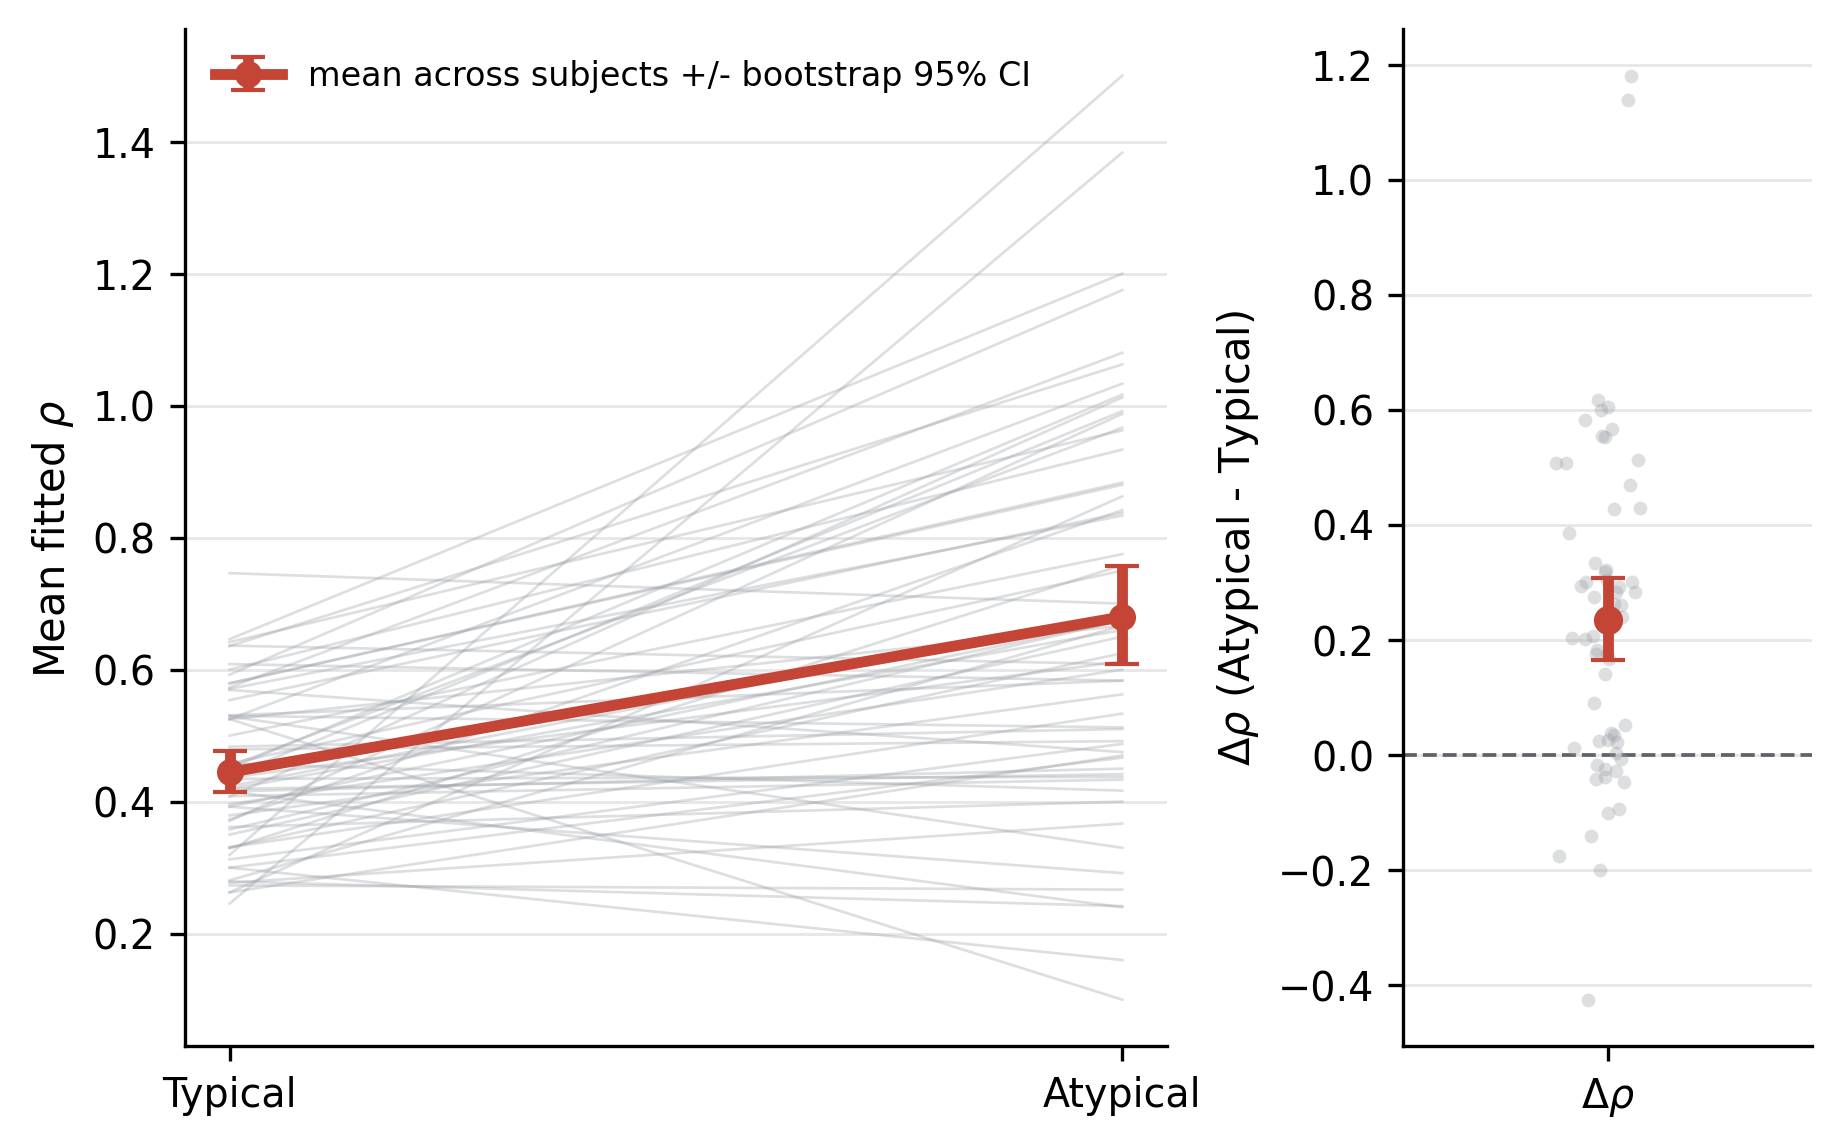
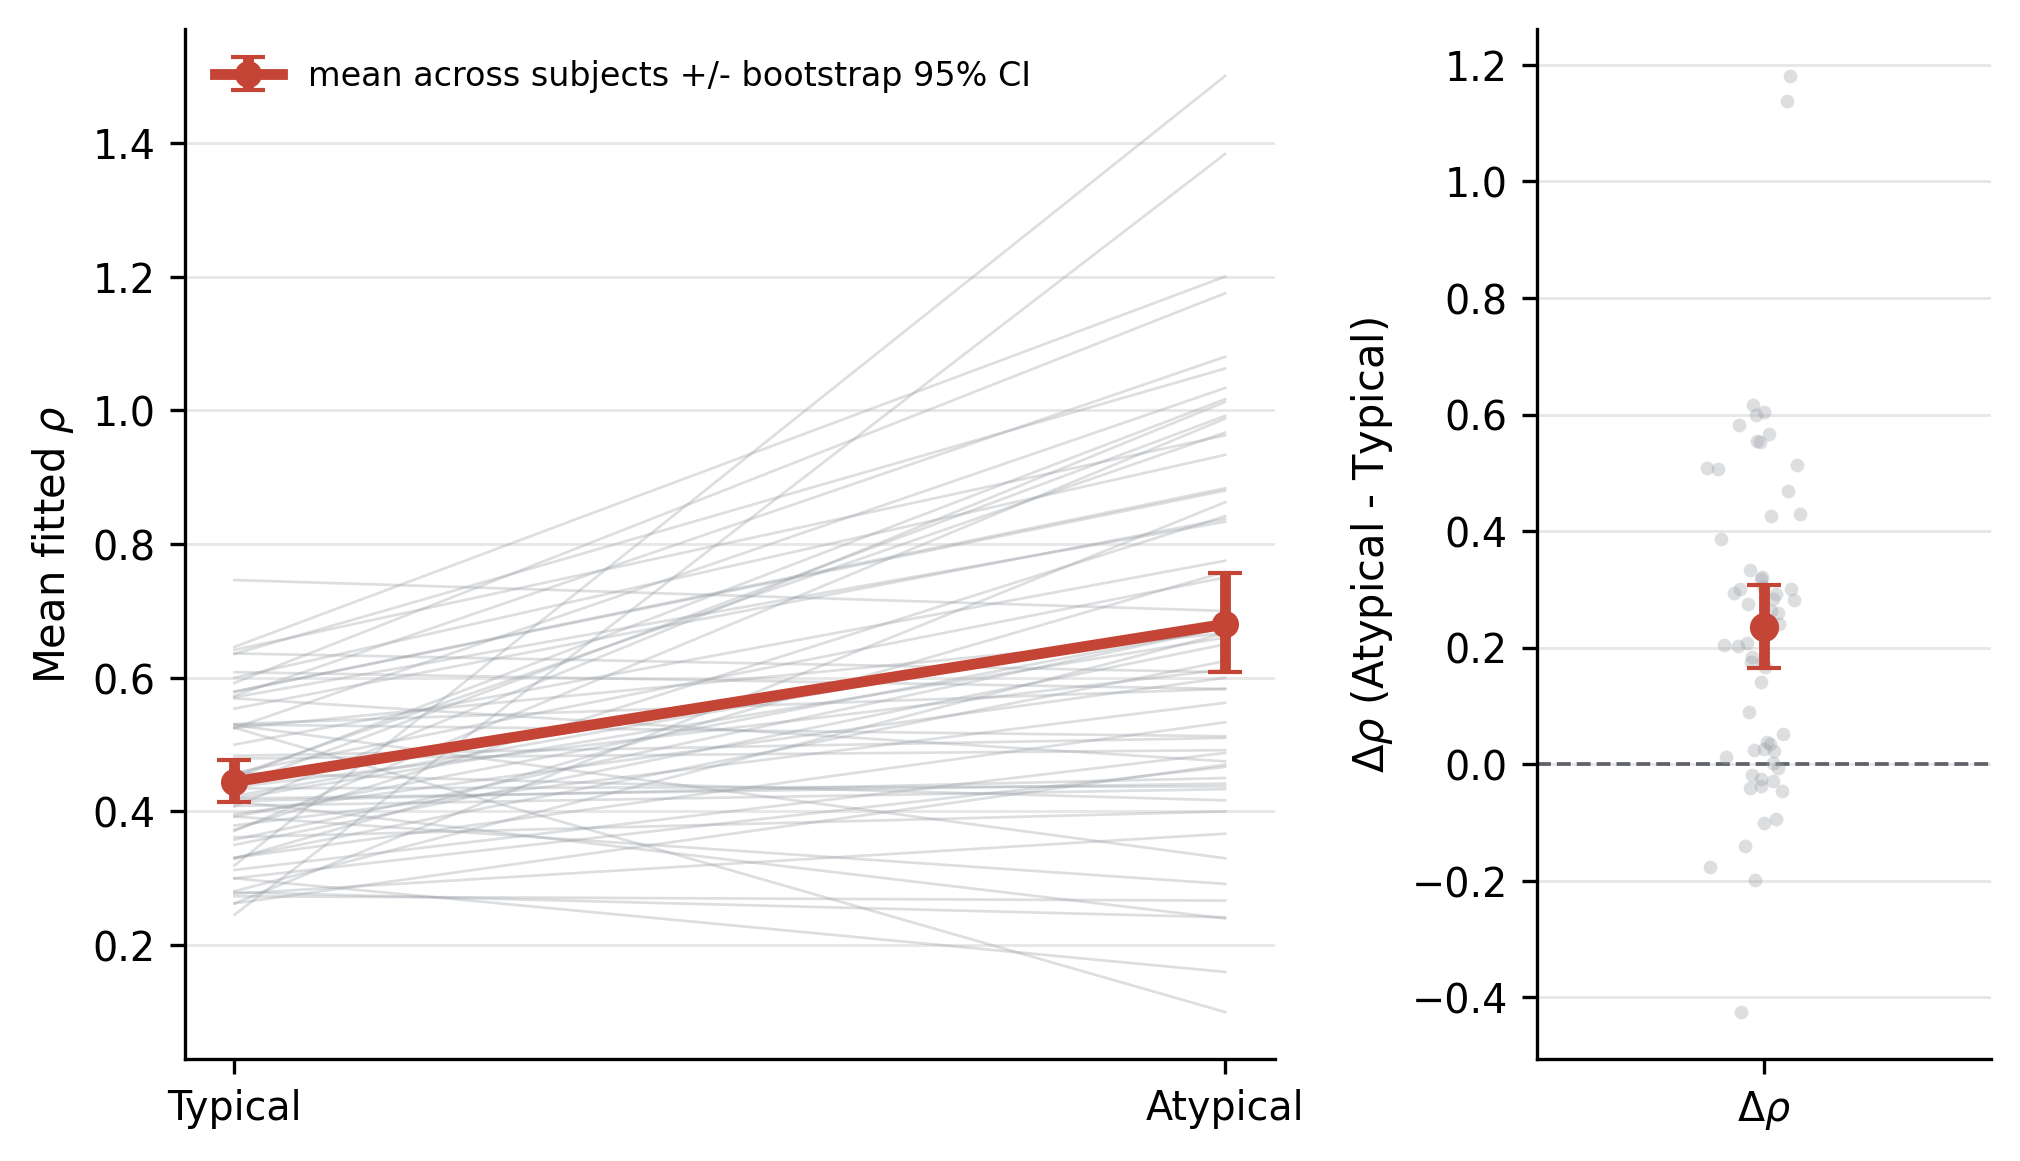
Split core and full reproduction workflows

diff --git a/reproduce_all.py b/reproduce_all.py
@@ -25,13 +25,40 @@ DEPRECATED_MAIN_TABLES = [
     "table_stochastic.tex",
     "table_item_nll.tex",
 ]
+CORE_TABLE_FILES = [
+    "table_dataset.tex",
+    "table_numerical_settings.tex",
+    "table_condition_effects.tex",
+    "table_rho_subject_paired_summary.tex",
+    "table_rmse.tex",
+    "table_cluster_regression.tex",
+    "table_stochastic_likelihood.tex",
+    "table_semantic_validation.tex",
+    "table_semantic_scores.tex",
+    "table_item_recovery.tex",
+]
+FULL_EXTRA_TABLE_FILES = [
+    "table_sensitivity.tex",
+    "table_permutation.tex",
+    "table_mixed_effects.tex",
+]
 
 
 def main() -> int:
+    return run_core()
+
+
+def prepare_directories() -> None:
     OUTPUTS.mkdir(exist_ok=True)
     FIGURES.mkdir(exist_ok=True)
     TABLES.mkdir(parents=True, exist_ok=True)
+    ROOT_TABLES.mkdir(parents=True, exist_ok=True)
 
+
+def run_core() -> int:
+    """Regenerate the core manuscript analysis, figures, tables, and summaries."""
+
+    prepare_directories()
     run([sys.executable, "scripts/compute_semantic_scores.py", "--out", "data/processed/semantic_scores.csv"])
     run(
         [
@@ -43,6 +70,21 @@ def main() -> int:
             "data/processed/semantic_scores.csv",
         ]
     )
+
+    summary = read_json(OUTPUTS / "summary.json")
+    semantic_scores = write_semantic_scores_19(summary)
+    reproducibility_summary = write_reproducibility_summary(summary, semantic_scores)
+    copy_figures()
+    write_core_table_files(summary, reproducibility_summary, semantic_scores)
+    copy_tables_to_root(CORE_TABLE_FILES)
+    remove_deprecated_main_tables()
+    return 0
+
+
+def run_full() -> int:
+    """Run the slower validation suite in addition to the core reproduction."""
+
+    run_core()
     run([sys.executable, "analyses/sensitivity_action_parameters.py"])
     run([sys.executable, "analyses/permutation_semantic_prior.py", "--n-permutations", "5000"])
     run([sys.executable, "analyses/mixed_effects_validation.py"])
@@ -53,7 +95,8 @@ def main() -> int:
     semantic_scores = write_semantic_scores_19(summary)
     reproducibility_summary = write_reproducibility_summary(summary, semantic_scores)
     copy_figures()
-    write_table_files(summary, reproducibility_summary, semantic_scores)
+    write_full_table_files(summary, reproducibility_summary, semantic_scores)
+    copy_tables_to_root(CORE_TABLE_FILES + FULL_EXTRA_TABLE_FILES)
     remove_deprecated_main_tables()
     run([sys.executable, "analyses/presubmission_missing_results.py"])
     run([sys.executable, "analyses/central_chain_validation.py"])
@@ -160,7 +203,14 @@ def copy_figures() -> None:
             shutil.copy2(src, FIGURES / name)
 
 
-def write_table_files(summary: dict[str, Any], repro: dict[str, Any], semantic_scores: pd.DataFrame) -> None:
+def copy_tables_to_root(filenames: list[str]) -> None:
+    for name in filenames:
+        src = TABLES / name
+        if src.exists():
+            shutil.copy2(src, ROOT_TABLES / name)
+
+
+def write_core_table_files(summary: dict[str, Any], repro: dict[str, Any], semantic_scores: pd.DataFrame) -> None:
     write_dataset_table(repro)
     write_numerical_table()
     write_condition_effects_table(summary)
@@ -170,10 +220,14 @@ def write_table_files(summary: dict[str, Any], repro: dict[str, Any], semantic_s
     write_stochastic_likelihood_table(summary)
     write_semantic_validation_table(summary)
     write_semantic_scores_table(semantic_scores)
+    write_item_recovery_table(summary)
+
+
+def write_full_table_files(summary: dict[str, Any], repro: dict[str, Any], semantic_scores: pd.DataFrame) -> None:
+    write_core_table_files(summary, repro, semantic_scores)
     write_sensitivity_table()
     write_permutation_table()
     write_mixed_effects_table()
-    write_item_recovery_table(summary)
 
 
 def remove_deprecated_main_tables() -> None:
@@ -205,6 +259,8 @@ def write_numerical_table() -> None:
         ("$\\rho$ grid", "$0,0.05,\\ldots,2.00$"),
         ("Velocity/deformation weight, $\\alpha$", "1.0"),
         ("Acceleration weight, $\\beta$", "0.003"),
+        ("Potential scale, $\\lambda$", "2.0"),
+        ("Temporal decay exponent, $\\gamma$", "1.2"),
         ("Target Gaussian width, $\\sigma_T$", "not used in primary nested model"),
         ("Competitor width, $\\sigma_C$", "0.9"),
         ("Boundary term, $B(q)$", "0 inside box constraints, $+\\infty$ outside"),
@@ -526,29 +582,10 @@ def write_semantic_validation_table(summary: dict[str, Any]) -> None:
     ]
 
     validation_path = OUTPUTS / "semantic_sources" / "multisource_semantic_validation_results.csv"
-    validation = pd.read_csv(validation_path)
-    validation_rows = []
-    for _, row in validation.iterrows():
-        source = str(row["source"]).replace("_", "\\_")
-        source_type = str(row["source_type"])
-        validation_rows.append(
-            (
-                source,
-                source_type,
-                str(row["coverage"]),
-                fmt(row["dir_spearman_r"]),
-                fmtp(row["dir_spearman_p"]),
-                fmt(row["loo_spearman_r"]),
-                fmtp(row["loo_spearman_p"]),
-                fmt(row["rmse"]),
-                fmt(row["mae"]),
-            )
-        )
-
     lines = [
         "\\begin{table}[htbp]",
         "\\centering",
-        "\\caption{Semantic-prior model comparison and multisource semantic validation. LOOCV: leave-one-item-out cross-validation.}",
+        "\\caption{Semantic-prior model comparison. When the full validation suite is run, this table also includes multisource semantic validation. LOOCV: leave-one-item-out cross-validation.}",
         "\\label{tab:semantic-validation}",
         "\\small",
         "\\textbf{Panel A. Primary reported semantic margin}\\\\[0.25em]",
@@ -562,19 +599,50 @@ def write_semantic_validation_table(summary: dict[str, Any]) -> None:
         [
             "\\bottomrule",
             "\\end{tabular*}",
-            "\\par\\vspace{1.6em}",
-            "\\noindent\\makebox[\\linewidth][c]{\\textbf{Panel B. Primary and embedding-based semantic sources}}",
-            "\\par\\vspace{0.2em}",
-            "\\scriptsize",
-            "\\resizebox{\\linewidth}{!}{%",
-            "\\begin{tabular}{p{0.25\\linewidth}p{0.20\\linewidth}ccccccc}",
-            "\\toprule",
-            "Source & Type & Cov. & $r_s$ & $p$ & LOOCV $r_s$ & LOOCV $p$ & RMSE & MAE \\\\",
-            "\\midrule",
         ]
     )
-    lines.extend(" & ".join(escape(cell) for cell in row) + " \\\\" for row in validation_rows)
-    lines.extend(["\\bottomrule", "\\end{tabular}", "}%", "\\end{table}", ""])
+    if validation_path.exists():
+        validation = pd.read_csv(validation_path)
+        validation_rows = []
+        for _, row in validation.iterrows():
+            source = str(row["source"]).replace("_", "\\_")
+            source_type = str(row["source_type"])
+            validation_rows.append(
+                (
+                    source,
+                    source_type,
+                    str(row["coverage"]),
+                    fmt(row["dir_spearman_r"]),
+                    fmtp(row["dir_spearman_p"]),
+                    fmt(row["loo_spearman_r"]),
+                    fmtp(row["loo_spearman_p"]),
+                    fmt(row["rmse"]),
+                    fmt(row["mae"]),
+                )
+            )
+        lines.extend(
+            [
+                "\\par\\vspace{1.6em}",
+                "\\noindent\\makebox[\\linewidth][c]{\\textbf{Panel B. Primary and embedding-based semantic sources}}",
+                "\\par\\vspace{0.2em}",
+                "\\scriptsize",
+                "\\resizebox{\\linewidth}{!}{%",
+                "\\begin{tabular}{p{0.25\\linewidth}p{0.20\\linewidth}ccccccc}",
+                "\\toprule",
+                "Source & Type & Cov. & $r_s$ & $p$ & LOOCV $r_s$ & LOOCV $p$ & RMSE & MAE \\\\",
+                "\\midrule",
+            ]
+        )
+        lines.extend(" & ".join(escape(cell) for cell in row) + " \\\\" for row in validation_rows)
+        lines.extend(["\\bottomrule", "\\end{tabular}", "}%"])
+    else:
+        lines.extend(
+            [
+                "\\par\\vspace{0.6em}",
+                "\\footnotesize Multisource semantic validation is generated by \\texttt{python reproduce\\_full.py}.",
+            ]
+        )
+    lines.extend(["\\end{table}", ""])
     (TABLES / "table_semantic_validation.tex").write_text("\n".join(lines), encoding="utf-8")
 
 

diff --git a/tables/table_semantic_validation.tex b/tables/table_semantic_validation.tex
@@ -1,6 +1,6 @@
 \begin{table}[htbp]
 \centering
-\caption{Semantic-prior model comparison and multisource semantic validation. LOOCV: leave-one-item-out cross-validation.}
+\caption{Semantic-prior model comparison. When the full validation suite is run, this table also includes multisource semantic validation. LOOCV: leave-one-item-out cross-validation.}
 \label{tab:semantic-validation}
 \small
 \textbf{Panel A. Primary reported semantic margin}\\[0.25em]
@@ -13,21 +13,6 @@ Semantic-margin & Semantic margin & 0.793 & -43.258 & -0.546 \\
 Condition + semantic & Atypical label + semantic margin & 0.808 & -42.681 & -0.691 \\
 \bottomrule
 \end{tabular*}
-\par\vspace{1.6em}
-\noindent\makebox[\linewidth][c]{\textbf{Panel B. Primary and embedding-based semantic sources}}
-\par\vspace{0.2em}
-\scriptsize
-\resizebox{\linewidth}{!}{%
-\begin{tabular}{p{0.25\linewidth}p{0.20\linewidth}ccccccc}
-\toprule
-Source & Type & Cov. & $r_s$ & $p$ & LOOCV $r_s$ & LOOCV $p$ & RMSE & MAE \\
-\midrule
-Primary (inverse-typicality) & Human rating (retrospective) & 19/19 & -0.855 & $<.001$ & 0.847 & $<.001$ & 0.084 & 0.063 \\
-embedding\_e5base & Computational & 19/19 & -0.274 & 0.2569 & -0.035 & 0.8866 & 0.169 & 0.134 \\
-embedding\_mpnet & Computational & 19/19 & -0.312 & 0.1930 & 0.095 & 0.6997 & 0.168 & 0.136 \\
-embedding\_roberta & Computational & 19/19 & -0.640 & 0.0031 & 0.465 & 0.0449 & 0.154 & 0.124 \\
-Multisource rank-mean & Computational (ensemble) & 19/19 & -0.582 & 0.0089 & 0.540 & 0.0169 & 0.141 & 0.118 \\
-\bottomrule
-\end{tabular}
-}%
+\par\vspace{0.6em}
+\footnotesize Multisource semantic validation is generated by \texttt{python reproduce\_full.py}.
 \end{table}

diff --git a/tables/table_numerical_settings.tex b/tables/table_numerical_settings.tex
@@ -2,22 +2,22 @@
 \centering
 \caption{Fixed numerical settings for the primary action model.}
 \label{tab:numerical-settings}
-\begin{tabular}{lr}
+\begin{tabular}{l r}
 \toprule
 Quantity & Value \\
 \midrule
 Number of normalized samples, $K$ & 51 \\
-$\rho$ grid & $0.0,0.05,\ldots,2.00$ \\
-Velocity/deformation weight, $\alpha$ & 1.000 \\
+$\rho$ grid & $0,0.05,\ldots,2.00$ \\
+Velocity/deformation weight, $\alpha$ & 1.0 \\
 Acceleration weight, $\beta$ & 0.003 \\
 Potential scale, $\lambda$ & 2.0 \\
 Temporal decay exponent, $\gamma$ & 1.2 \\
 Target Gaussian width, $\sigma_T$ & not used in primary nested model \\
 Competitor width, $\sigma_C$ & 0.9 \\
-Boundary term, $B(q)$ & $0$ inside box constraints, $+\infty$ outside \\
+Boundary term, $B(q)$ & 0 inside box constraints, $+\infty$ outside \\
 Optimizer & SciPy L-BFGS-B with analytic gradient \\
 Initial path & minimum jerk; then previous $\rho$ solution \\
-Convergence tolerance & ftol = $1e-09$ \\
+Convergence tolerance & ftol = $10^{-9}$ \\
 Maximum iterations & 500 \\
 \bottomrule
 \end{tabular}

diff --git a/reproduce_core.py b/reproduce_core.py
@@ -1,0 +1,7 @@
+from __future__ import annotations
+
+from reproduce_all import run_core
+
+
+if __name__ == "__main__":
+    raise SystemExit(run_core())

diff --git a/reproduce_full.py b/reproduce_full.py
@@ -1,0 +1,7 @@
+from __future__ import annotations
+
+from reproduce_all import run_full
+
+
+if __name__ == "__main__":
+    raise SystemExit(run_full())

diff --git a/src/least_action_mouse/analysis.py b/src/least_action_mouse/analysis.py
@@ -952,7 +952,7 @@ def plot_subject_paired_rho(trial_fits: pd.DataFrame, destination: Path) -> None
         axis.spines["right"].set_visible(False)
         axis.tick_params(axis="both", labelsize=9.5)
 
-    fig.tight_layout()
+    fig.subplots_adjust(left=0.12, right=0.98, bottom=0.16, top=0.94, wspace=0.34)
     fig.savefig(destination, dpi=300, bbox_inches="tight")
     fig.savefig(destination.with_suffix(".pdf"), bbox_inches="tight")
     plt.close(fig)

diff --git a/README.md b/README.md
@@ -35,10 +35,18 @@ The main predictive comparison is subject-wise cross-validated trajectory RMSE a
 
 ```powershell
 python -m pip install -r requirements.txt
-python reproduce_all.py
+python reproduce_core.py
 ```
 
-`python reproduce_all.py` regenerates figures, tables, summaries, validation outputs, and `outputs/reproducibility_summary.json`.
+`python reproduce_core.py` regenerates the core manuscript analysis, figures, generated tables, summaries, and `outputs/reproducibility_summary.json`. `python reproduce_all.py` is kept as a compatibility alias for this fast core run.
+
+For the slower secondary validation suite, run:
+
+```powershell
+python reproduce_full.py
+```
+
+`python reproduce_full.py` runs the core reproduction first, then adds sensitivity analyses, permutation checks, mixed-effects validation, secondary semantic predictors, multisource semantic validation, and supplementary validation tables.
 
 ## Submission outputs
 
@@ -47,6 +55,7 @@ python reproduce_all.py
 - `highlights.tex`
 - `figures/*.png`
 - `figures/decisive_four_panel.pdf`
+- `figures/rho_subject_paired.pdf`
 - `outputs/tables/*.tex`
 - `outputs/reproducibility_summary.json`
 - `outputs/semantic_scores_19_items.csv`